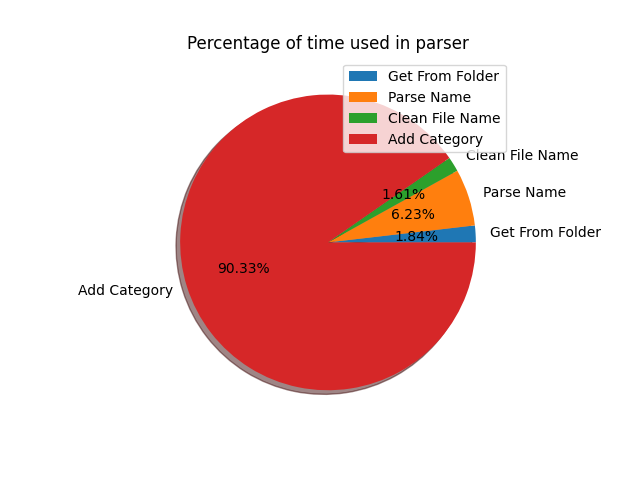
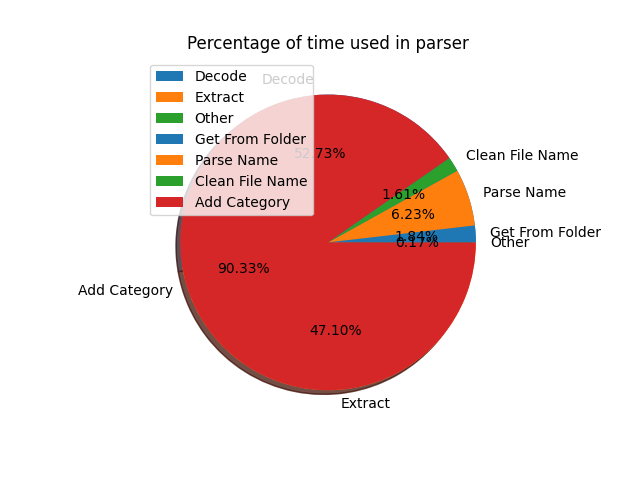
Extract done

diff --git a/scripts/performance/code/extract.py b/scripts/performance/code/extract.py
@@ -1,5 +1,6 @@
 import json
 import os
+from .diagram_creator import *
 
 def extractAndParseReadingToConsole(path):
     extractData = json.load(open(path))
@@ -26,16 +27,24 @@ def extractAndParseReadingToConsole(path):
     
     extractionPercentage = extractTotalTime / totalTime * 100
     parsingPercentage = parseTime / totalTime * 100
-    totalPercentage = [extractionPercentage, parsingPercentage]
-    # totalLabels
+    other = 100 - extractionPercentage - parsingPercentage
+    totalPercentage = [extractionPercentage, parsingPercentage, other]
+    totalLabels = ["Extraction", "Parsing", "Other"]
+    # createPieChart(totalPercentage, totalLabels, "Extract and parsing time in percentage", "img/extract_and_parsev0.1.png")
 
-    # decodePercentage = 
-    # extractPercentage =
-    # extractSeries =
+    decodePercentage = decodeZipTime / extractTotalTime * 100
+    extractPercentage = extractedFileTime / extractTotalTime * 100
+    other = 100 - decodePercentage - extractPercentage
+    extractPercentage = [decodePercentage, extractPercentage, other]
+    extractLabel = ["Decode", "Extract", "Other"]
+    createPieChart(extractPercentage, extractLabel, "Percentage time in extraction", "img/extract_percentagev0.1.png")
+
+    parseFileTime = parseOfFileTme / parseTime * 100
+    extractSeries = [parseFileTime]
 
     print(f"Extraction and parsing took {totalTime / 100000} seconds")
     print(f"\tWith extraction taking {extractionPercentage}% of the time, with")
-    print(f"\t\tDecoding of zip taking {decodeZipTime / extractTotalTime * 100}% of the extraction time")
-    print(f"\t\tExtraction of file taking {extractedFileTime / extractTotalTime * 100}% of the extraction time")
+    print(f"\t\tDecoding of zip taking {decodePercentage}% of the extraction time")
+    print(f"\t\tExtraction of file taking {extractionPercentage}% of the extraction time")
     print(f"\tAnd parsing taking {parsingPercentage}% of the time, with")
-    print(f"\t\tParsing of file taking {parseOfFileTme / parseTime * 100}% of the parse time")
+    print(f"\t\tParsing of file taking {parseFileTime}% of the parse time")
